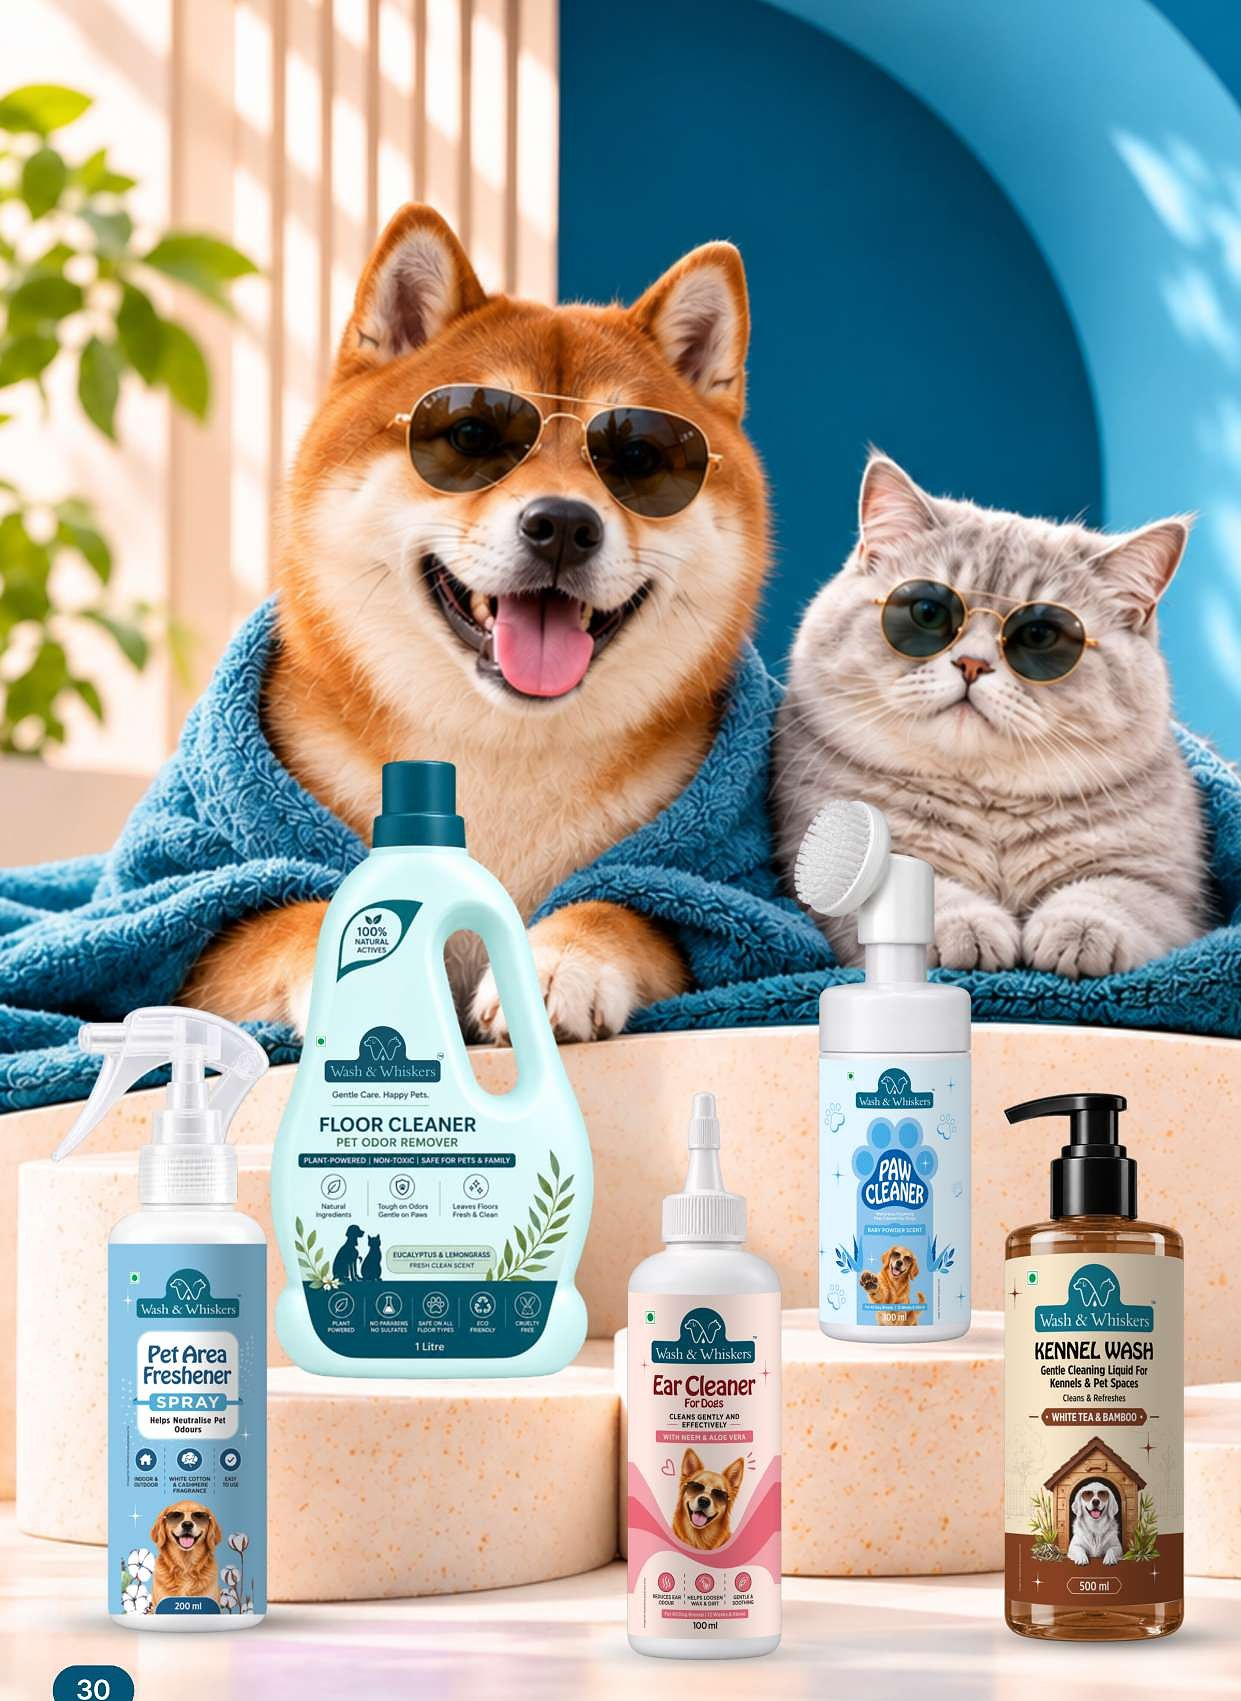
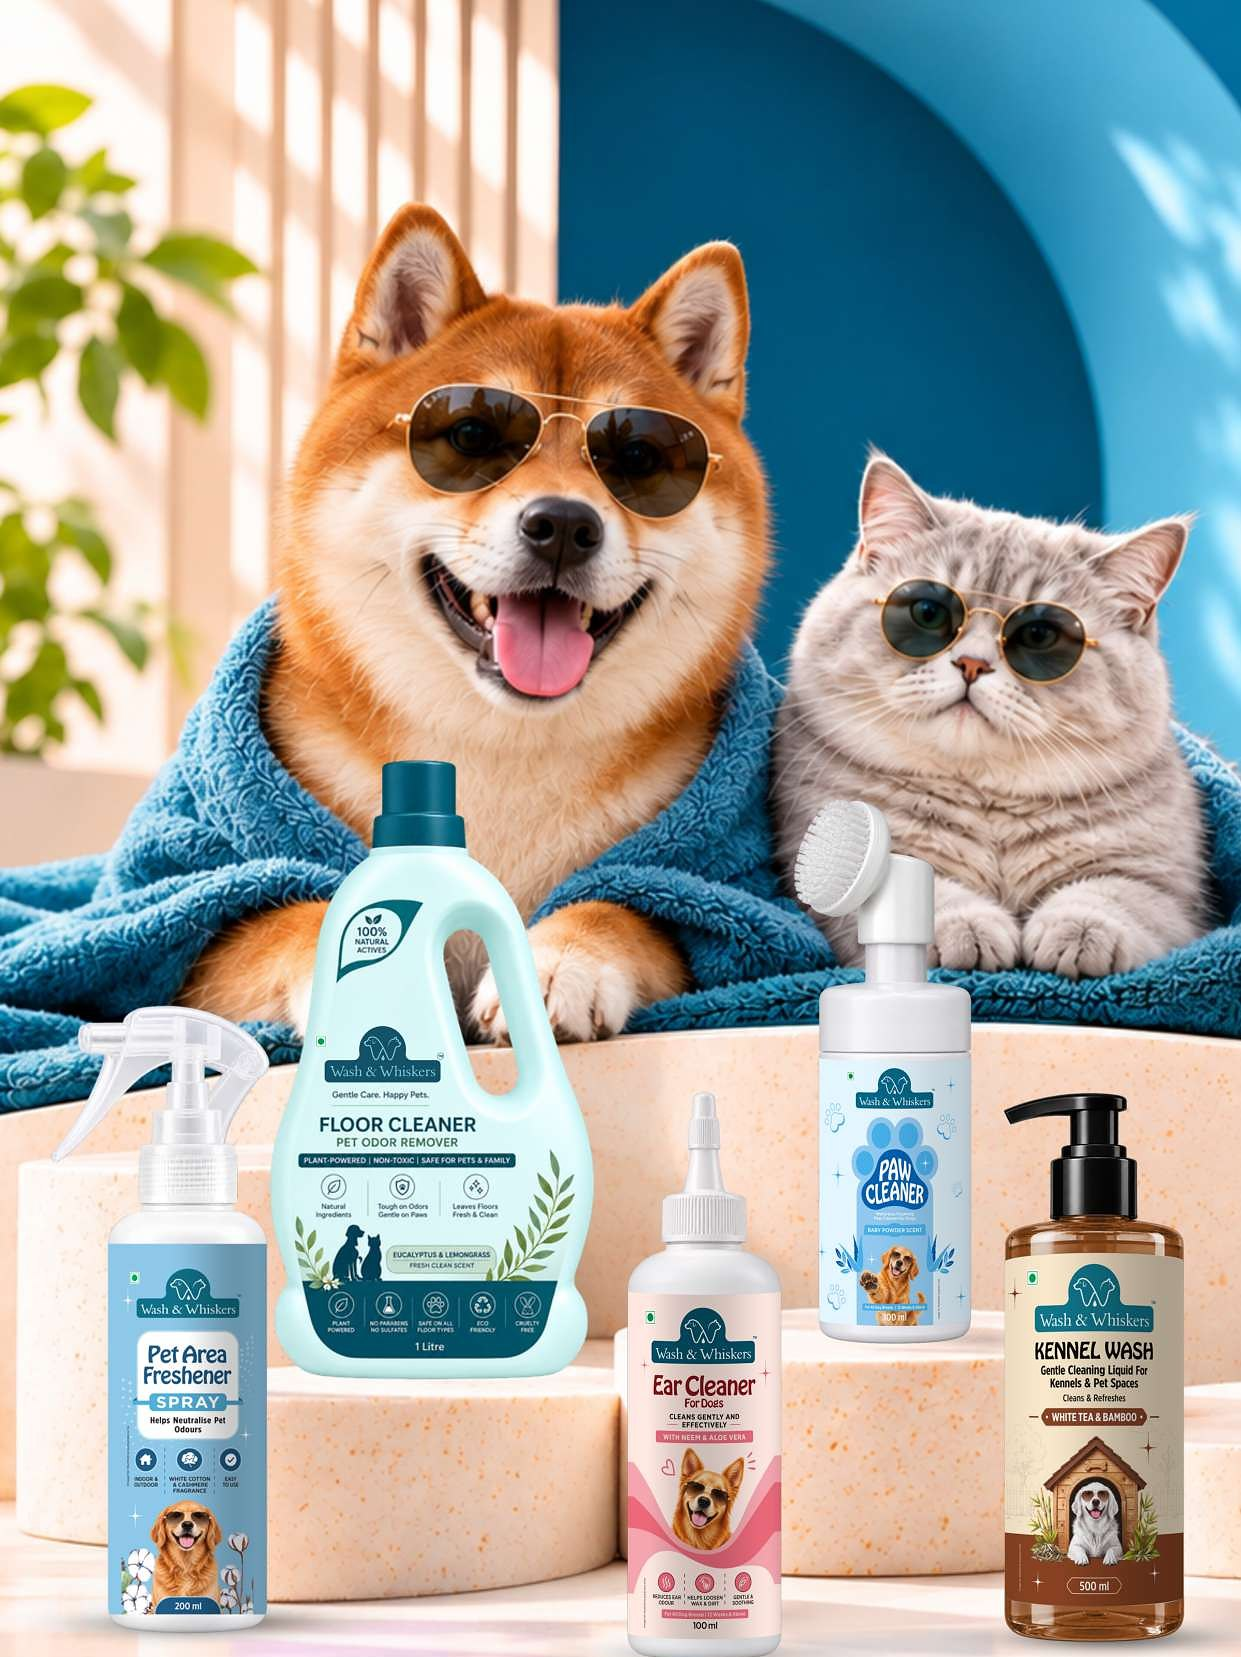
corporate-6: Our Promise shows the whole photo uncropped, no page number
Claude-Session: https://claude.ai/code/session_01RC81uSRwzWa5FzgJYbR2gY

diff --git a/corporate-6/css/style.css b/corporate-6/css/style.css
@@ -1098,3 +1098,12 @@ section.band2 > div.bn-photo { display: block !important; position: relative; pa
 .band2 .bn-photo .bn-tag { left: 1.6rem; bottom: 1.6rem; }
 @media (max-width: 1000px) { section.band2 > div.bn-photo { min-height: 520px; } }
 @media (max-width: 560px) { section.band2 > div.bn-photo { min-height: 440px; } }
+/* Our Promise: whole photo, never cropped */
+section.band2 > div.bn-photo { min-height: 0 !important; }
+.band2 .bn-photo img { position: relative !important; inset: auto !important; display: block; width: 100%; height: auto !important; object-fit: contain !important; }
+section.band2 > div.bn-panel { display: flex !important; flex-direction: column; justify-content: center; }
+section.band2 { grid-template-columns: minmax(0, 1fr) minmax(0, 1.15fr); align-items: stretch; }
+@media (max-width: 1000px) { section.band2 > div.bn-photo { min-height: 0 !important; } section.band2 { grid-template-columns: minmax(0, 1fr); } }
+section.band2 > div.bn-panel { align-items: flex-start; }
+section.band2 > div.bn-panel > .bn-steps { align-self: stretch; }
+.band2 .bn-photo .bn-tag { top: 1.6rem; bottom: auto !important; left: 1.6rem; }

diff --git a/corporate-6/index.html b/corporate-6/index.html
@@ -8,7 +8,7 @@
 <link rel="icon" href="images/favicon.png" type="image/png"><link rel="apple-touch-icon" href="images/apple-touch-icon.png">
 <link rel="preconnect" href="https://fonts.googleapis.com"><link rel="preconnect" href="https://fonts.gstatic.com" crossorigin>
 <link href="https://fonts.googleapis.com/css2?family=Baloo+2:wght@500;600;700;800&family=Montserrat:wght@400;500;600;700;800&display=swap" rel="stylesheet">
-<link rel="stylesheet" href="css/style.css?v=c6-30">
+<link rel="stylesheet" href="css/style.css?v=c6-32">
 </head>
 <body>
 
@@ -129,7 +129,7 @@
 })();
 </script>
 <section class="band band2">
-  <div class="bn-photo"><img src="images/photos/promise-shiba-cat.jpg?v=2" alt="Shiba Inu and cat in sunglasses" loading="lazy"><span class="bn-tag">Dogs &amp; Cats</span></div>
+  <div class="bn-photo"><img src="images/photos/promise-shiba-cat.jpg?v=3" alt="Shiba Inu and cat in sunglasses" loading="lazy"><span class="bn-tag">Dogs &amp; Cats</span></div>
   <div class="bn-panel">
     <span class="eyebrow">Our Promise</span>
     <h2>Cleaner homes.<br><em>Happier pets.</em></h2>

diff --git a/corporate-6/about.html b/corporate-6/about.html
@@ -8,7 +8,7 @@
 <link rel="icon" href="images/favicon.png" type="image/png"><link rel="apple-touch-icon" href="images/apple-touch-icon.png">
 <link rel="preconnect" href="https://fonts.googleapis.com"><link rel="preconnect" href="https://fonts.gstatic.com" crossorigin>
 <link href="https://fonts.googleapis.com/css2?family=Baloo+2:wght@500;600;700;800&family=Montserrat:wght@400;500;600;700;800&display=swap" rel="stylesheet">
-<link rel="stylesheet" href="css/style.css?v=c6-30">
+<link rel="stylesheet" href="css/style.css?v=c6-32">
 </head>
 <body>
 

diff --git a/corporate-6/categories.html b/corporate-6/categories.html
@@ -8,7 +8,7 @@
 <link rel="icon" href="images/favicon.png" type="image/png"><link rel="apple-touch-icon" href="images/apple-touch-icon.png">
 <link rel="preconnect" href="https://fonts.googleapis.com"><link rel="preconnect" href="https://fonts.gstatic.com" crossorigin>
 <link href="https://fonts.googleapis.com/css2?family=Baloo+2:wght@500;600;700;800&family=Montserrat:wght@400;500;600;700;800&display=swap" rel="stylesheet">
-<link rel="stylesheet" href="css/style.css?v=c6-30">
+<link rel="stylesheet" href="css/style.css?v=c6-32">
 </head>
 <body>
 

diff --git a/corporate-6/concerns.html b/corporate-6/concerns.html
@@ -8,7 +8,7 @@
 <link rel="icon" href="images/favicon.png" type="image/png"><link rel="apple-touch-icon" href="images/apple-touch-icon.png">
 <link rel="preconnect" href="https://fonts.googleapis.com"><link rel="preconnect" href="https://fonts.gstatic.com" crossorigin>
 <link href="https://fonts.googleapis.com/css2?family=Baloo+2:wght@500;600;700;800&family=Montserrat:wght@400;500;600;700;800&display=swap" rel="stylesheet">
-<link rel="stylesheet" href="css/style.css?v=c6-30">
+<link rel="stylesheet" href="css/style.css?v=c6-32">
 </head>
 <body>
 

diff --git a/corporate-6/contact.html b/corporate-6/contact.html
@@ -8,7 +8,7 @@
 <link rel="icon" href="images/favicon.png" type="image/png"><link rel="apple-touch-icon" href="images/apple-touch-icon.png">
 <link rel="preconnect" href="https://fonts.googleapis.com"><link rel="preconnect" href="https://fonts.gstatic.com" crossorigin>
 <link href="https://fonts.googleapis.com/css2?family=Baloo+2:wght@500;600;700;800&family=Montserrat:wght@400;500;600;700;800&display=swap" rel="stylesheet">
-<link rel="stylesheet" href="css/style.css?v=c6-30">
+<link rel="stylesheet" href="css/style.css?v=c6-32">
 </head>
 <body>
 

diff --git a/corporate-6/grooming.html b/corporate-6/grooming.html
@@ -8,7 +8,7 @@
 <link rel="icon" href="images/favicon.png" type="image/png"><link rel="apple-touch-icon" href="images/apple-touch-icon.png">
 <link rel="preconnect" href="https://fonts.googleapis.com"><link rel="preconnect" href="https://fonts.gstatic.com" crossorigin>
 <link href="https://fonts.googleapis.com/css2?family=Baloo+2:wght@500;600;700;800&family=Montserrat:wght@400;500;600;700;800&display=swap" rel="stylesheet">
-<link rel="stylesheet" href="css/style.css?v=c6-30">
+<link rel="stylesheet" href="css/style.css?v=c6-32">
 </head>
 <body>
 

diff --git a/corporate-6/guides.html b/corporate-6/guides.html
@@ -8,7 +8,7 @@
 <link rel="icon" href="images/favicon.png" type="image/png"><link rel="apple-touch-icon" href="images/apple-touch-icon.png">
 <link rel="preconnect" href="https://fonts.googleapis.com"><link rel="preconnect" href="https://fonts.gstatic.com" crossorigin>
 <link href="https://fonts.googleapis.com/css2?family=Baloo+2:wght@500;600;700;800&family=Montserrat:wght@400;500;600;700;800&display=swap" rel="stylesheet">
-<link rel="stylesheet" href="css/style.css?v=c6-30">
+<link rel="stylesheet" href="css/style.css?v=c6-32">
 </head>
 <body>
 

diff --git a/corporate-6/hygiene.html b/corporate-6/hygiene.html
@@ -8,7 +8,7 @@
 <link rel="icon" href="images/favicon.png" type="image/png"><link rel="apple-touch-icon" href="images/apple-touch-icon.png">
 <link rel="preconnect" href="https://fonts.googleapis.com"><link rel="preconnect" href="https://fonts.gstatic.com" crossorigin>
 <link href="https://fonts.googleapis.com/css2?family=Baloo+2:wght@500;600;700;800&family=Montserrat:wght@400;500;600;700;800&display=swap" rel="stylesheet">
-<link rel="stylesheet" href="css/style.css?v=c6-30">
+<link rel="stylesheet" href="css/style.css?v=c6-32">
 </head>
 <body>
 

diff --git a/corporate-6/solutions.html b/corporate-6/solutions.html
@@ -8,7 +8,7 @@
 <link rel="icon" href="images/favicon.png" type="image/png"><link rel="apple-touch-icon" href="images/apple-touch-icon.png">
 <link rel="preconnect" href="https://fonts.googleapis.com"><link rel="preconnect" href="https://fonts.gstatic.com" crossorigin>
 <link href="https://fonts.googleapis.com/css2?family=Baloo+2:wght@500;600;700;800&family=Montserrat:wght@400;500;600;700;800&display=swap" rel="stylesheet">
-<link rel="stylesheet" href="css/style.css?v=c6-30">
+<link rel="stylesheet" href="css/style.css?v=c6-32">
 </head>
 <body>
 
